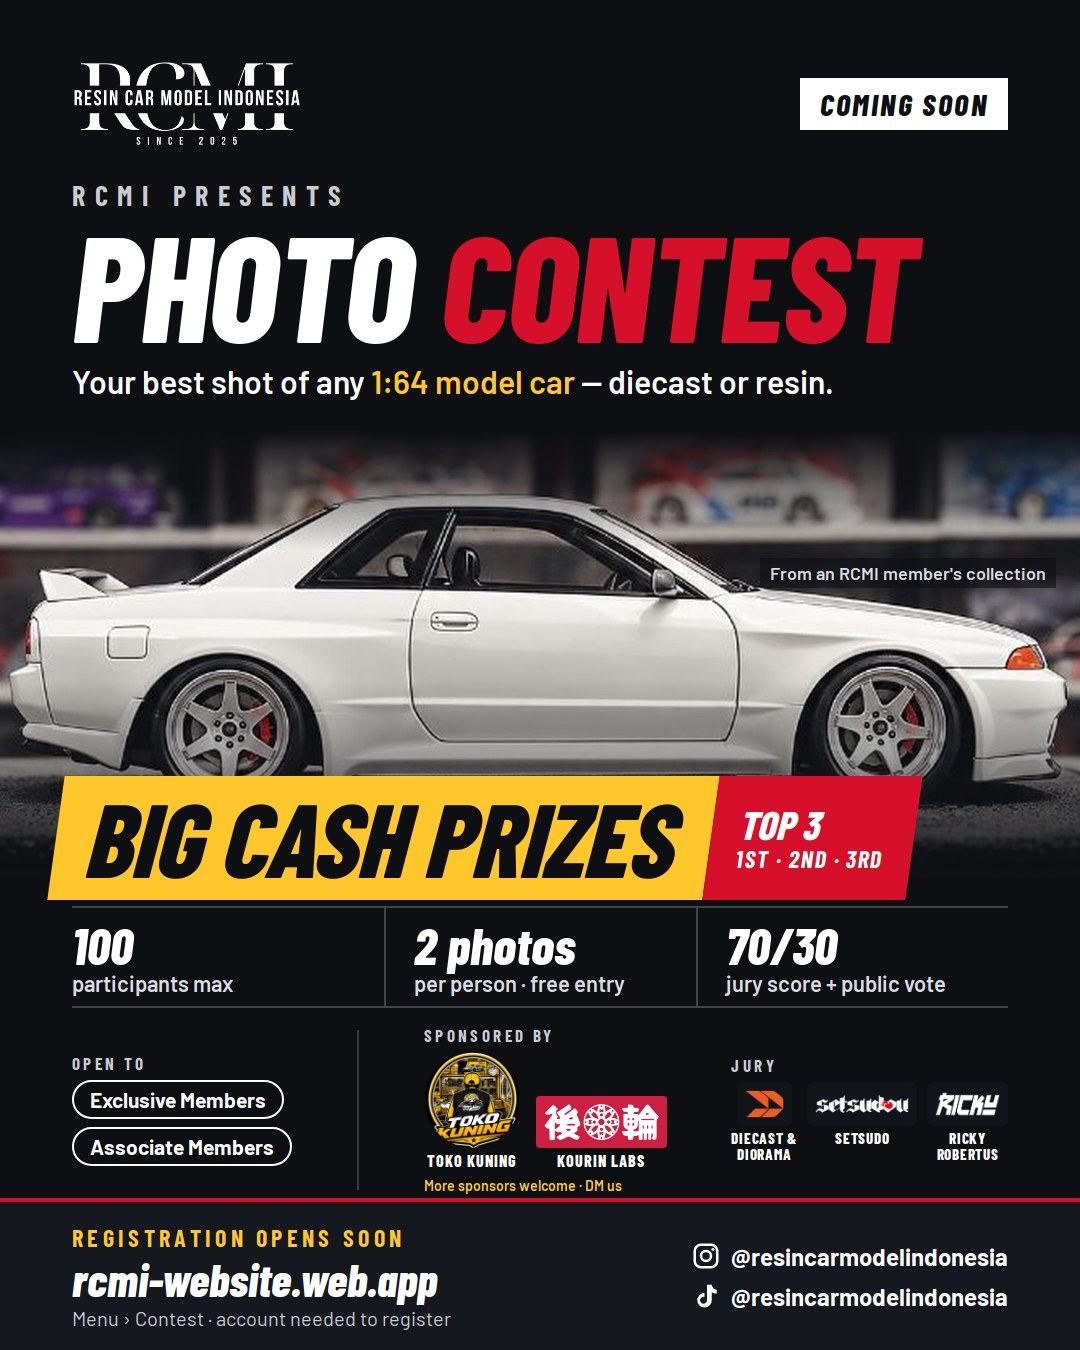
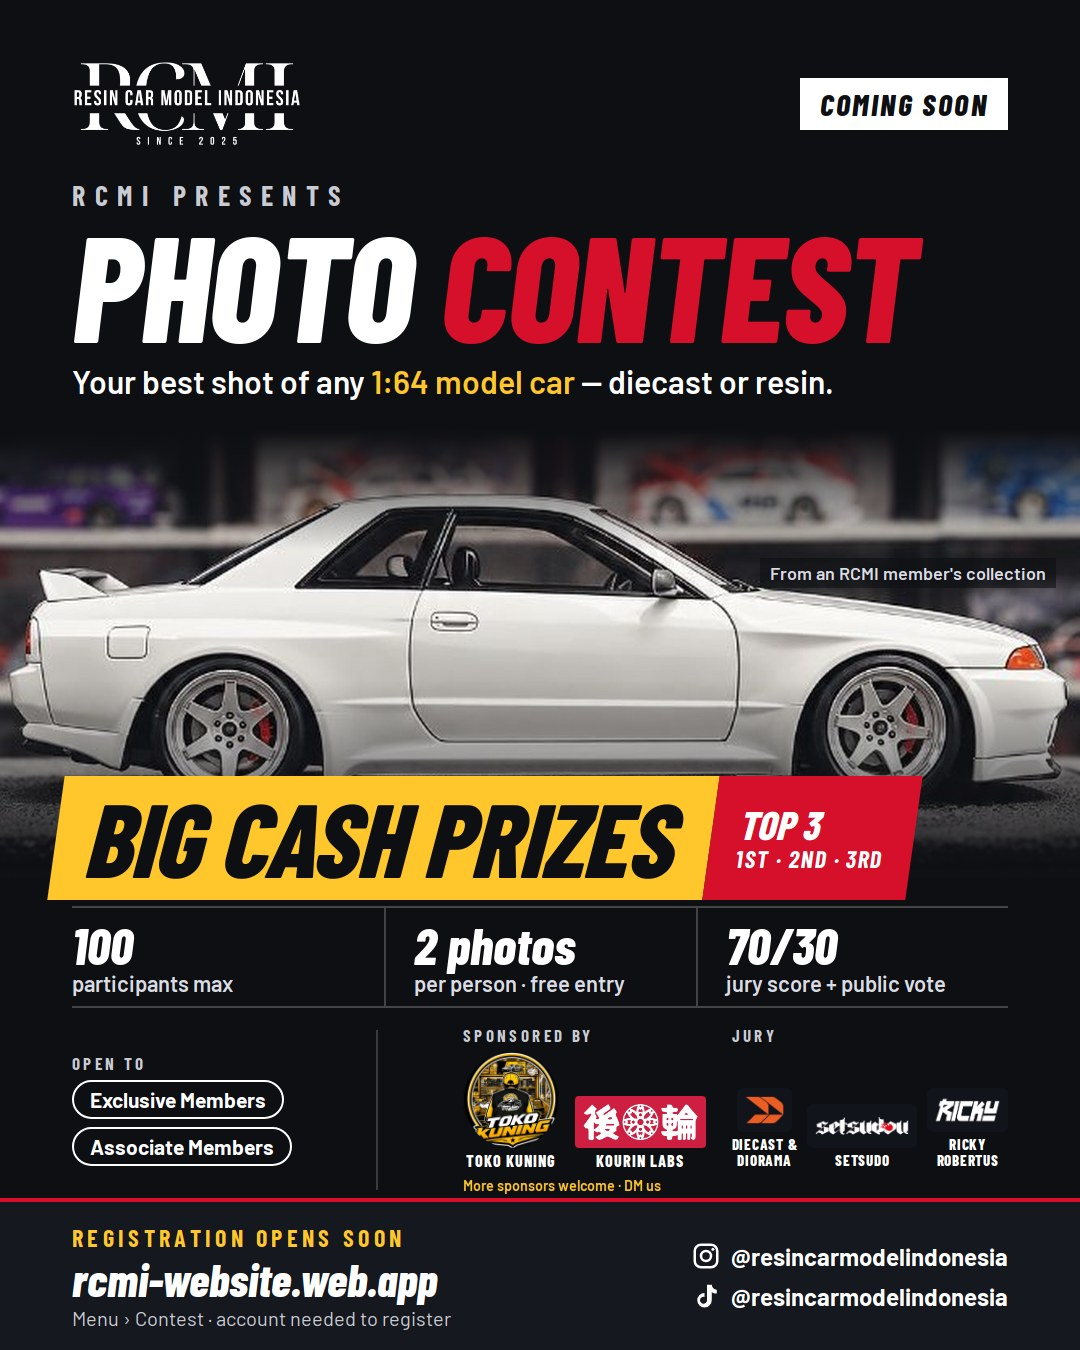
Contest posters (rendered)

Changed region(s): [[0.3972, 0.7467, 0.9472, 0.9022]]

diff --git a/public/js/app.js b/public/js/app.js
@@ -8,12 +8,12 @@ import {
   orderBy, limit, getDocs, onSnapshot, serverTimestamp, runTransaction, Timestamp, writeBatch,
   startAfter, arrayUnion, arrayRemove, getCountFromServer
 } from "https://www.gstatic.com/firebasejs/11.0.2/firebase-firestore.js";
-import { firebaseConfig, uploadUrl } from "./config.js?v=1792808153";
-import { t, getLang, setLang, applyStatic } from "./i18n.js?v=1792808153";
-import { GALLERY } from "./gallery-data.js?v=1792808153";
-import { SEED_EVENTS } from "./seed-events.js?v=1792808153";
-import { parseLedgerCSV, parseLedgerTable, buildPL, balanceIssues } from "./finance.js?v=1792808153";
-import { parseMemberSheets, phoneKey as sheetPhoneKey } from "./members-sync.js?v=1792808153";
+import { firebaseConfig, uploadUrl } from "./config.js?v=1792808234";
+import { t, getLang, setLang, applyStatic } from "./i18n.js?v=1792808234";
+import { GALLERY } from "./gallery-data.js?v=1792808234";
+import { SEED_EVENTS } from "./seed-events.js?v=1792808234";
+import { parseLedgerCSV, parseLedgerTable, buildPL, balanceIssues } from "./finance.js?v=1792808234";
+import { parseMemberSheets, phoneKey as sheetPhoneKey } from "./members-sync.js?v=1792808234";
 
 /* ---------------- helpers ---------------- */
 const $ = (s, r = document) => r.querySelector(s);
@@ -4271,7 +4271,7 @@ $("#btn-install-3")?.addEventListener("click", () => installApp());
    Flow: admin creates (draft) → publishes: registration open (account needed; register, then submit 1 photo)
    → voting (everyone signed in: 1 vote; jury scores blind on 4 criteria) → judging (jury only) → admin announces winners. */
 const CT_STEPS = ["open", "voting", "judging", "closed"];
-const POSTER_V = "8982767c";   // changed by tools/posters/render.mjs so phones fetch the new poster instead of an old cached copy
+const POSTER_V = "7d2ae117";   // changed by tools/posters/render.mjs so phones fetch the new poster instead of an old cached copy
 const CT_POSTERS = ["r32", "f40"];
 // Contest sponsors in display order (logos in public/img/sponsors/) and jury (logos in public/img/jury/).
 const CT_SPONSORS = [{ name: "Toko Kuning", logo: "/img/sponsors/toko-kuning.jpg", round: true }, { name: "Kourin Labs", logo: "/img/sponsors/kourin-labs.jpg" }];

diff --git a/public/index.html b/public/index.html
@@ -9,7 +9,7 @@
   <link rel="preconnect" href="https://fonts.googleapis.com">
   <link rel="preconnect" href="https://fonts.gstatic.com" crossorigin>
   <link href="https://fonts.googleapis.com/css2?family=Barlow+Condensed:ital,wght@0,600;0,700;0,800;1,600;1,700;1,800&family=Barlow:wght@400;500;600;700&family=Noto+Serif:wght@700&display=swap" rel="stylesheet">
-  <link rel="stylesheet" href="/css/style.css?v=1792808153">
+  <link rel="stylesheet" href="/css/style.css?v=1792808234">
   <link rel="icon" type="image/png" href="/img/icon-64.png">
   <link rel="apple-touch-icon" href="/img/icon-192.png">
   <link rel="manifest" href="/manifest.webmanifest">
@@ -616,6 +616,6 @@
 
   <div class="toast" id="toast" role="status" aria-live="polite"></div>
 
-  <script type="module" src="/js/app.js?v=1792808153"></script>
+  <script type="module" src="/js/app.js?v=1792808234"></script>
 </body>
 </html>
